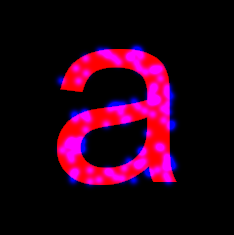
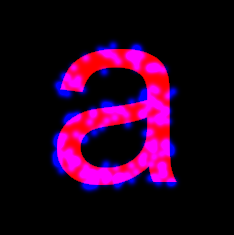
'a' example has 150 bubbles of sd 3, at max 1 sd from 'a'

Changed region(s): [[0.2094, 0.1489, 0.7778, 0.834]]

diff --git a/examples.py b/examples.py
@@ -39,7 +39,7 @@ a1, mask, mu_x, mu_y, sigma = bubbles.bubbles_mask_nonzero(im=a, sigma=[10,10,10
 a1.save(op.join('examples', 'a1.png'))
 
 # demonstrate that the space is unused
-a2, mask, mu_x, mu_y, sigma = bubbles.bubbles_mask_nonzero(im=a, sigma=np.repeat(2, repeats=100), bg=127, max_sigma_from_nonzero=0.2)
+a2, mask, mu_x, mu_y, sigma = bubbles.bubbles_mask_nonzero(im=a, sigma=np.repeat(3, repeats=150), bg=127, max_sigma_from_nonzero=1)
 
 a2.save(op.join('examples', 'a2.png'))
 

diff --git a/README.md b/README.md
@@ -102,7 +102,7 @@ Here is a snippet demonstrating that `bubbles_mask_nonzero()` only selects bubbl
 
 ```python
 a2, mask, mu_x, mu_y, sigma = bubbles.bubbles_mask_nonzero(
-    im=a, sigma=np.repeat(5, repeats=100), bg=127, max_sigma_from_nonzero=0.2
+    im=a, sigma=np.repeat(3, repeats=150), bg=127, max_sigma_from_nonzero=1
 )
 
 a_arr = np.asarray(a).copy()
